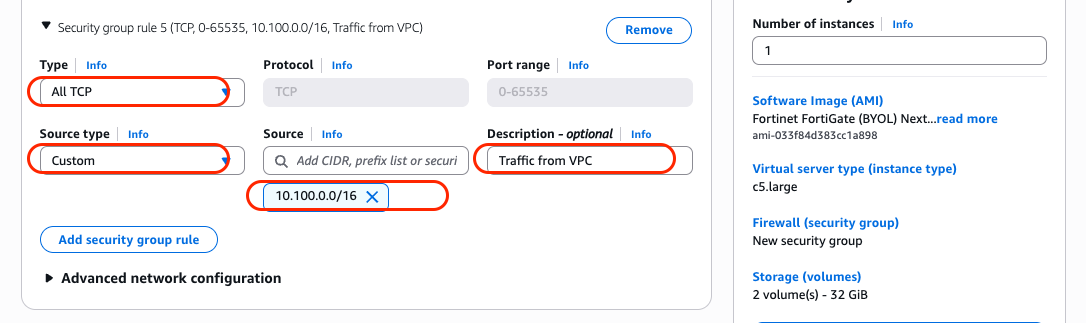
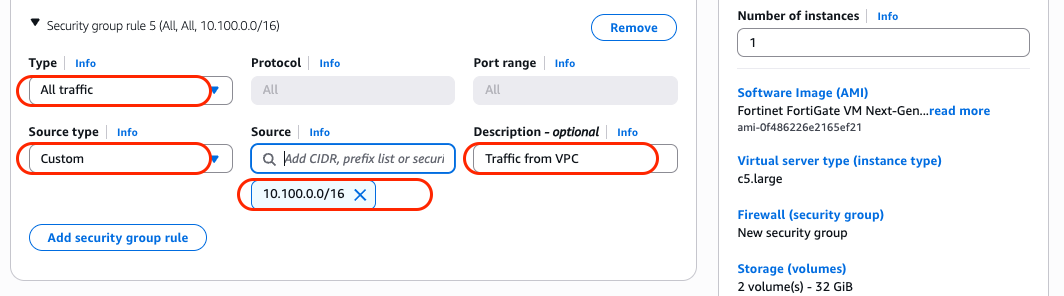
Initial version

diff --git a/aws-101-lab3/README.md b/aws-101-lab3/README.md
@@ -13,7 +13,7 @@ By the end of this lab, you'll have proven end-to-end inspection in both directi
 
 ### What You'll Build
 
-- A test EC2 instance (`Redwood-AWS-TestVM`) running Ubuntu Server 24.04 LTS in `Private-Subnet` at the static private IP `10.100.2.10`, with **no public IP**
+- A test EC2 instance (`Redwood-AWS-TestVM`) running Ubuntu Server 26.04 LTS in `Private-Subnet` at the static private IP `10.100.2.10`, with **no public IP**
 - A FortiGate **address object** (`TESTVM-INTERNAL`) representing the workload
 - Two FortiGate **Virtual IPs** mapping FortiGate's Elastic IP to the test VM:
   - `TESTVM-INTERNAL-VIP-SSH` — external port `2222` → internal port `22`
@@ -25,44 +25,7 @@ By the end of this lab, you'll have proven end-to-end inspection in both directi
 
 ### Architecture After Lab 3
 
-```text
-                      ┌────────────────────┐
-                      │      Internet      │
-                      └──────────┬─────────┘
-                                 │
-                      ┌──────────┴─────────┐
-                      │  Redwood-AWS-IGW   │
-                      └──────────┬─────────┘
-                                 │
-                      (RT-Public: 0/0 → IGW)
-                                 │
-┌────────────────────────────────┴───────────────────────────────────┐
-│  Redwood-AWS-VPC  (10.100.0.0/16)  —  ca-central-1a                │
-│                                                                    │
-│  ┌─────────────── Public-Subnet (10.100.1.0/24) ──────────────┐  │
-│  │                                                              │  │
-│  │   Redwood-AWS-FGT  port1 ENI  ──── EIP (15.x.x.x)            │  │
-│  │      ▲                                                       │  │
-│  │      │  VIP :2222 → 10.100.2.10:22 (testvm_access_vip)       │  │
-│  │      │  VIP :8080 → 10.100.2.10:80                           │  │
-│  │      │                                                       │  │
-│  └──────┼───────────────────────────────────────────────────────┘  │
-│         │                                                          │
-│  ┌──────┼─────── Private-Subnet (10.100.2.0/24) ──────────────┐   │
-│  │      │                                                      │   │
-│  │   Redwood-AWS-FGT  port2 ENI  10.100.2.4 (static)           │   │
-│  │      ▲                                                      │   │
-│  │      │  internet_access policy: port2 → port1, NAT enabled  │   │
-│  │      │                                                      │   │
-│  │      │   ┌────────────────────────────┐                     │   │
-│  │      └───┤  Redwood-AWS-TestVM        │                     │   │
-│  │          │  10.100.2.10  (no EIP)     │                     │   │
-│  │          └────────────────────────────┘                     │   │
-│  │                                                             │   │
-│  │  (RT-Private: 0.0.0.0/0 → port2 ENI)                       │   │
-│  └─────────────────────────────────────────────────────────────┘   │
-└────────────────────────────────────────────────────────────────────┘
-```
+![REFERENCE ARCHITECTURE](images/reference-architecture-lab3.png)
 
 ### Business Context
 
@@ -84,11 +47,9 @@ Redwood Industries has approved the AWS landing zone built in Labs 1 and 2 and i
 
 ## PART 1: Deploy the Test Workload
 
----
-
 ## Step 1: Launch the Test EC2 Instance
 
-You will launch a small Ubuntu Server 24.04 LTS instance directly into `Private-Subnet`. The `Redwood-AWS-RT-Private` route table from Lab 2 ensures any egress from this instance is automatically steered to FortiGate's `port2`.
+You will launch a small Ubuntu Server 26.04 LTS instance directly into `Private-Subnet`. The `Redwood-AWS-RT-Private` route table from Lab 2 ensures any egress from this instance is automatically steered to FortiGate's `port2`.
 
 1. **Open the EC2 launch wizard:**
    - In the top search bar, type `EC2` and click **EC2** (the service result)
@@ -104,10 +65,14 @@ You will launch a small Ubuntu Server 24.04 LTS instance directly into `Private-
      | Tags | |
      | `Project` | `Redwood-AWS-101` |
 
+     ![TAGS](images/step1.2.png)
+
 3. **Application and OS Images (Amazon Machine Image):**
    - Under **Quick Start**, select **Ubuntu**
-   - In the **Amazon Machine Image (AMI)** dropdown, select **Ubuntu Server 24.04 LTS (HVM), SSD Volume Type**
+   - In the **Amazon Machine Image (AMI)** dropdown, select **Ubuntu Server 26.04 LTS (HVM), SSD Volume Type**
    - Architecture: `64-bit (x86)`
+
+     ![OS IMAGE](images/step1.3.png)
 
 4. **Instance type:**
    - Use the parameter below.
@@ -132,6 +97,8 @@ You will launch a small Ubuntu Server 24.04 LTS instance directly into `Private-
      | Security group name | `Redwood-AWS-TestVM-SG` |
      | Description | `Private access only - inbound from FortiGate port2 ENI` |
 
+     ![NETWORK](images/step1.6.a.png)
+
    - In the **Inbound security group rules** section, replace the default rule with the two rules below.
 
      | Type | Protocol | Port range | Source type | Source | Description |
@@ -139,10 +106,14 @@ You will launch a small Ubuntu Server 24.04 LTS instance directly into `Private-
      | SSH | TCP | 22 | Anywhere | 0.0.0.0/0 | SSH from Internet to VM (via FortiGate) |
      | HTTP | TCP | 80 | Anywhere | 0.0.0.0/0 | HTTP from Internet to VM (via FortiGate) |
 
+     ![SG](images/step1.6.b.png)
+
 7. **Advanced network configuration:**
    - Expand the **Advanced network configuration** panel
    - In **Network interface 1** find the **Primary IP** field.
    - Set the **Primary IP** private IPv4 to `10.100.2.10`
+
+     ![FIXED IP ADD](images/step1.7.png)
 
 8. **Configure storage:**
    - Keep the default 8 GiB `gp3` root volume (no second volume needed)
@@ -154,7 +125,9 @@ You will launch a small Ubuntu Server 24.04 LTS instance directly into `Private-
 
 10. **Wait for the instance to reach `Running` state:**
     - Click **View all instances**
-    - Refresh the **Instances** page until the **Instance state** shows **Running** and the **Status check** column shows **3/3 checks passed**
+    - Refresh the **Instances** page until the **Instance state** shows **Running** and the **Status check** column shows **2/2 checks passed**
+
+     ![RUNNING INSTANCE](images/step1.10.png)
 
 ### Validation
 
@@ -168,8 +141,6 @@ You will launch a small Ubuntu Server 24.04 LTS instance directly into `Private-
 ## PART 2: Configure FortiGate for Inbound Access (VIPs)
 
 The test VM is now running but unreachable from the outside — it has no public IP, and even FortiGate doesn't yet have policies that recognize it. This part configures FortiGate so that traffic from the Internet to FortiGate's Elastic IP on specific ports gets translated and forwarded to `Redwood-AWS-TestVM`.
-
----
 
 ## Step 2: Create the FortiGate Address Object for the Test Workload
 
@@ -189,13 +160,15 @@ Address objects are reusable references that FortiGate uses in policies, VIPs, a
      | Interface | `port2` |
      | Type | `Subnet` |
      | IP/Netmask | `10.100.2.10/32` |
-     | Static route configuration | `Disabled` |
+     | Routing configuration | `Disabled` |
+
+     ![ADDRESS CONFIG](images/step2.2.png)
 
    - Click **OK**
 
 ### Validation
 
-- [x] `TESTVM-INTERNAL` appears in **Policy & Objects → Addresses** with type `Subnet` and value `10.100.2.10/32`
+- [x] `TESTVM-INTERNAL` appears in **Policy & Objects → Addresses** with type `Subnet` and IP value `10.100.2.10/32`
 - [x] Interface shows `port2`
 
 ---
@@ -226,6 +199,8 @@ Virtual IPs (VIPs) are FortiGate's destination NAT mechanism. Each VIP maps a `(
      | External service port | `2222` |
      | Map to IPv4 port | `22` |
 
+     ![VIP-SSH](images/step3.1.png)
+
    - Click **OK**
 
 2. **Create the HTTP VIP:**
@@ -254,6 +229,8 @@ Virtual IPs (VIPs) are FortiGate's destination NAT mechanism. Each VIP maps a `(
 - [x] `TESTVM-INTERNAL-VIP-HTTP` appears in **Virtual IPs**, mapping `0.0.0.0:8080 → 10.100.2.10:80`
 - [x] Both VIPs have **Interface: port1**
 
+![VALIDATION](images/step3.valid.png)
+
 ---
 
 ## Step 4: Create the Virtual IP Group
@@ -271,6 +248,8 @@ Grouping the two VIPs into a single object lets you reference both in one firewa
      | Members | `TESTVM-INTERNAL-VIP-SSH`, `TESTVM-INTERNAL-VIP-HTTP` |
 
    - Click **OK**
+
+     ![VIP GROUP](images/step4.1.png)
 
 ### Validation
 
@@ -305,8 +284,10 @@ The VIPs do the address translation, but FortiGate still needs an explicit polic
 
    - Click **OK**
 
+     ![FIREWALL POLICY CREATE](images/step5.1.png)
+
 > [!NOTE]
-  > **Source = `all`** means any Internet host can attempt SSH or HTTP to the VIPs. For a production deployment, narrow this to the operator's office IP or a known jump-host CIDR. For the workshop the wide-open Source is intentional so attendees can connect from any network.
+> **Source = `all`** means any Internet host can attempt SSH or HTTP to the VIPs. For a production deployment, narrow this to the operator's office IP or a known jump-host CIDR. For the workshop the wide-open Source is intentional so attendees can connect from any network.
 
 ### Validation
 
@@ -337,6 +318,8 @@ You will now connect to the test VM from your workstation by SSH'ing to FortiGat
 2. **Accept the host key warning the first time:**
    - When you see "The authenticity of host '... can't be established'", type `yes` and press Enter
    - You should land at the prompt: `[ubuntu@ip-10-100-2-10 ~]$`
+
+     ![SSH ACCESS](images/step6.2.png)
 
 > [!TIP]
 > If the SSH connection hangs or refuses, check (in order): your local SSH client is reaching FortiGate on TCP/2222 (security group `Redwood-AWS-FGT-SG` must allow SSH from your IP — added in Lab 2 Step 3); the VIP and firewall policy you just created exist; the test VM is `Running`; and `Redwood-AWS-TestVM-SG` allows SSH from `0.0.0.0/16`.
@@ -397,8 +380,10 @@ The test VM has inbound connectivity for management, but it can't reach the Inte
 
    - Click **OK**
 
- > [!IMPORTANT]
- > **NAT must be Enabled.** Without source NAT, the test VM's private IP (`10.100.2.10`) leaves FortiGate `port1` unchanged, hits the IGW, and exits to the Internet. The Internet has no route back to a private RFC 1918 address, so replies never return. With NAT enabled and **Use Outgoing Interface Address** selected, FortiGate replaces the source IP with the `port1` interface address (`10.100.1.x`), which AWS then 1:1-NATs to the Elastic IP at the IGW. Replies come back to the Elastic IP → IGW → `port1` → de-NAT to `10.100.2.10` → test VM.
+     ![INTERNET ACCESS](images/step7.1.png)
+
+> [!IMPORTANT]
+> **NAT must be Enabled.** Without source NAT, the packet leaves FortiGate `port1` with source IP `10.100.2.10` (the test VM's private IP). The AWS Internet Gateway performs a source IP validation check — it will only forward packets whose source IP matches a public IP (Elastic IP) associated with the sending ENI. Since `10.100.2.10` has no associated EIP, **the IGW drops the packet silently**. With NAT enabled and **Use Outgoing Interface Address** selected, FortiGate replaces the source IP with `10.100.1.x` (`port1`'s private IP), which *does* have the Elastic IP associated with it. The IGW then performs its 1:1 NAT, substituting the Elastic IP as the public source, and forwards the packet to the Internet. Replies return to the Elastic IP → IGW → `port1` → FortiGate de-NAT → test VM.
 
 ### Validation
 
@@ -465,6 +450,8 @@ Generating traffic is one half of the validation; confirming it actually travers
    - In the FortiGate GUI, click **Log & Report → Forward Traffic**
    - You should see fresh log entries from the connectivity tests in Step 8
 
+   ![TRAFFIC LOG](images/step9.1.png)
+
 2. **Examine a log entry — click any row to open the side details pane:**
 
    | Field | Expected value |
@@ -477,6 +464,8 @@ Generating traffic is one half of the validation; confirming it actually travers
    | Policy ID | `internet_access` |
    | Action | `accept` |
    | NAT Translation | `snat` |
+
+   ![LOG DETAILS](images/step9.2.png)
 
 > [!NOTE]
 > In AWS, the Elastic IP does NOT appear in the FortiGate logs as the NAT'd source — you will see the `port1` interface address (`10.100.1.x`). The Elastic IP substitution happens at the IGW, downstream of FortiGate. To confirm the actual public-source-IP from outside the VPC, run `curl -s https://ifconfig.me` from the test VM and verify it returns the FortiGate Elastic IP configured in Lab 2.
@@ -497,6 +486,8 @@ FortiView is FortiGate's real-time traffic dashboard. It needs no extra configur
 1. **Open FortiView Sources:**
    - In the FortiGate GUI, click **Dashboard → FortiView** and go to  **Sources** tap on the top.
 
+     ![FORTIVIEW SOURCES](images/step10.1.png)
+
 2. **Drill down on the test VM:**
    - Click the row for source `10.100.2.10`
    - Click **Drill down** → **Destination**
@@ -504,6 +495,8 @@ FortiView is FortiGate's real-time traffic dashboard. It needs no extra configur
 3. **Confirm the destinations and applications you tested:**
    - You should see `8.8.8.8` (ICMP), `www.fortinet.com` / `www.amazon.ca` (HTTPS), Google DNS (UDP/53)
    - Each session row shows bytes sent / bytes received, the matching policy, and the source/destination interfaces
+
+     ![DRILL DOWN](images/step10.3.png)
 
 ### Validation
 
@@ -519,37 +512,7 @@ You have proven end-to-end inspection of inbound and outbound traffic for the Re
 
 ### Architecture Review
 
-```text
-Inbound flow (your workstation → test VM via VIP):
-
-  workstation  ──HTTPS/SSH──►  EIP (15.x.x.x)
-                                 │
-                                 ▼ AWS IGW (1:1 NAT)
-                            FortiGate port1 (10.100.1.x)
-                                 │
-                                 ▼ VIP DNAT  :2222 → :22  (testvm_access_vip)
-                            FortiGate port2
-                                 │
-                                 ▼ AWS RT-Private (local route inside subnet)
-                            Redwood-AWS-TestVM (10.100.2.10:22)
-
-
-Outbound flow (test VM → Internet):
-
-  Redwood-AWS-TestVM (10.100.2.10)
-                                 │
-                                 ▼ AWS RT-Private: 0.0.0.0/0 → port2 ENI
-                            FortiGate port2
-                                 │
-                                 ▼ Policy: internet_access (port2 → port1, NAT enabled)
-                            FortiGate port1 (10.100.1.x)
-                                 │
-                                 ▼ AWS IGW (1:1 NAT to EIP)
-                            EIP (15.x.x.x)
-                                 │
-                                 ▼
-                                Internet (8.8.8.8, fortinet.com, ...)
-```
+![REFERENCE ARCHITECTURE](images/reference-architecture-lab3.png)
 
 ### Key Takeaways
 
@@ -611,7 +574,7 @@ This will complete the hybrid-cloud connectivity story for Redwood Industries.
 
 Before moving to Lab 4, verify:
 
-- [ ] `Redwood-AWS-TestVM` is **Running** with **3/3 checks passed**, in `Private-Subnet`, private IP `10.100.2.10`, **no public IP**
+- [ ] `Redwood-AWS-TestVM` is **Running** with **2/2 checks passed**, in `Private-Subnet`, private IP `10.100.2.10`, **no public IP**
 - [ ] Security group `Redwood-AWS-TestVM-SG` allows SSH (22) and HTTP (80)
 - [ ] FortiGate address object `TESTVM-INTERNAL` exists at `10.100.2.10/32`
 - [ ] VIPs `TESTVM-INTERNAL-VIP-SSH` (`:2222 → :22`) and `TESTVM-INTERNAL-VIP-HTTP` (`:8080 → :80`) exist on `port1`
@@ -634,7 +597,7 @@ Before moving to Lab 4, verify:
 | --- | --- | --- |
 | `Connection timed out` on TCP/2222 | `Redwood-AWS-FGT-SG` doesn't allow SSH from your IP, or your network blocks outbound 2222 | EC2 → Security Groups → `Redwood-AWS-FGT-SG` → add a custom TCP rule allowing port 2222 from your IP |
 | `Connection refused` on TCP/2222 | VIP or firewall policy missing | Verify `TESTVM-INTERNAL-VIP-SSH` exists and is part of `TESTVM-INTERNAL-VIPGRP`; verify `testvm_access_vip` is **Enabled** |
-| `Permission denied (publickey)` | Wrong key file or username | Use `ubuntu` (Ubuntu Server 24.04), `Redwood-AWS-FGT-Key.pem`, and `chmod 400` on the key file |
+| `Permission denied (publickey)` | Wrong key file or username | Use `ubuntu` (Ubuntu Server 26.04), `Redwood-AWS-FGT-Key.pem`, and `chmod 400` on the key file |
 | Connects, then immediately drops | `Redwood-AWS-TestVM-SG` blocks SSH from FortiGate's `port2` IP | Verify the SG rule's source is `0.0.0.0/0` |
 
 ### Test VM Can SSH In But Can't Reach the Internet
@@ -665,7 +628,12 @@ When debugging which policy applies to a flow, use FortiGate's built-in lookup:
 - Source: `10.100.2.10`
 - Authentication: `Any`
 - Destination Address: `8.8.8.8`
+
+  ![POLICY MATCH](images/step_final.png)
+
 - Click **Find matching policy** — FortiGate shows the matching policy or "Implicit Deny" if no matching policy were found
+
+  ![ACCEPT](images/step_final_2.png)
 
 ---
 

diff --git a/aws-101-lab2/README.md b/aws-101-lab2/README.md
@@ -628,7 +628,7 @@ Ready for [***Lab 3 — Security Policies & Traffic Testing***](/aws-101-lab3/RE
 
 In Lab 3 you will:
 
-- Deploy a test workload (Ubuntu Server 24.04 LTS) in `Private-Subnet`
+- Deploy a test workload (Ubuntu Server 26.04 LTS) in `Private-Subnet`
 - Create FortiGate firewall policies to allow inspected outbound Internet access (with NAT)
 - Create a Virtual IP (VIP) and policy to expose SSH on the test workload through FortiGate's Elastic IP
 - Generate test traffic and watch it appear in **FortiView → Sources** and **Log & Report → Forward Traffic**
